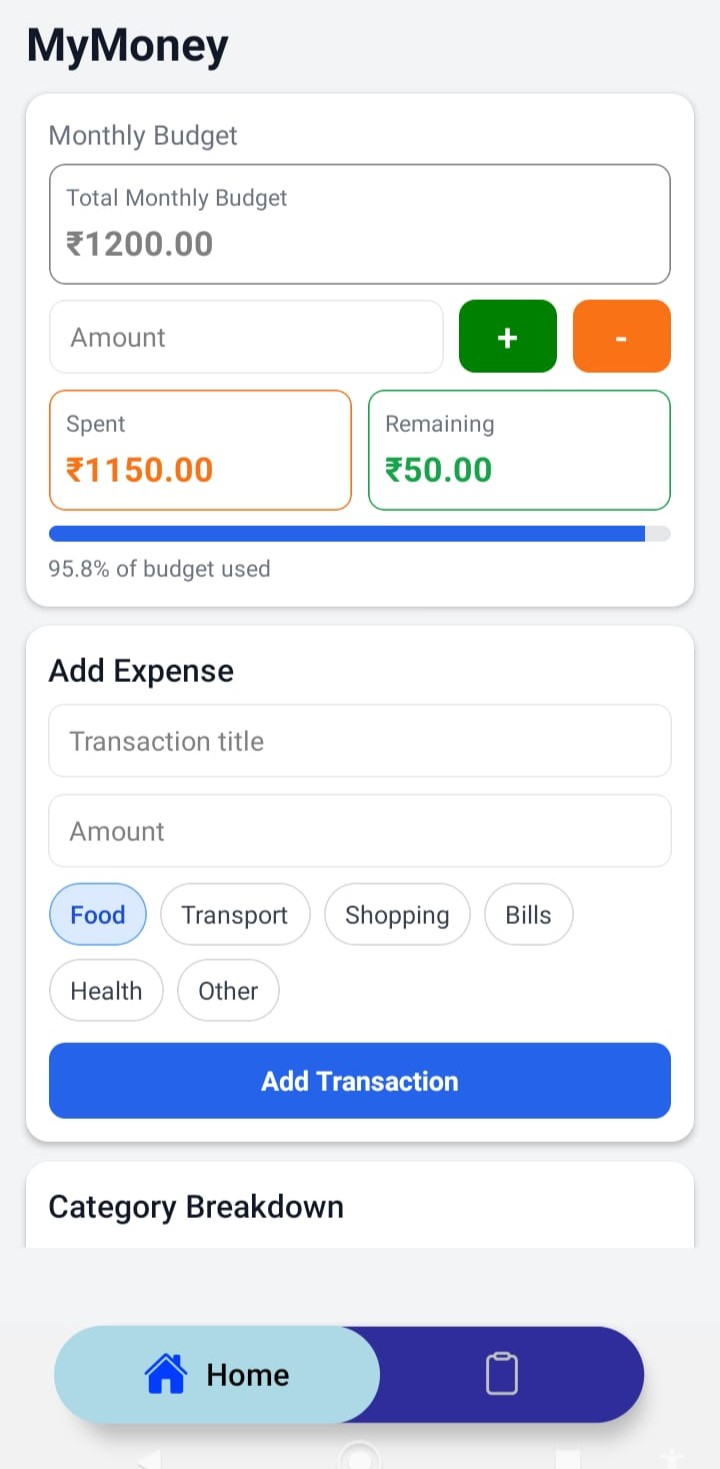
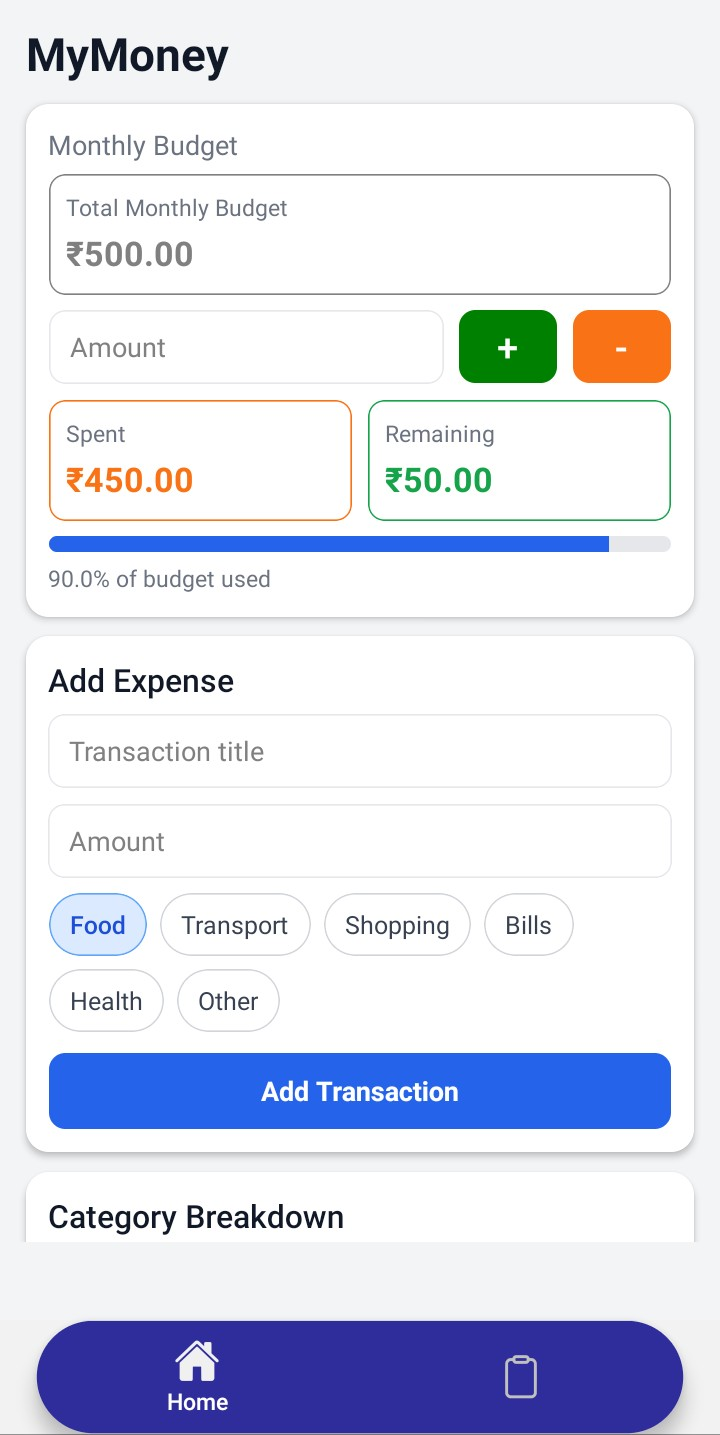
updated readme

diff --git a/readme.md b/readme.md
@@ -222,7 +222,7 @@ Future improvements planned for the application:
 
 # Demo
 
-APK Download: https://tinyurl.com/55t59crb
+APK Download: https://tinyurl.com/bdewwr36
 
 ---
 